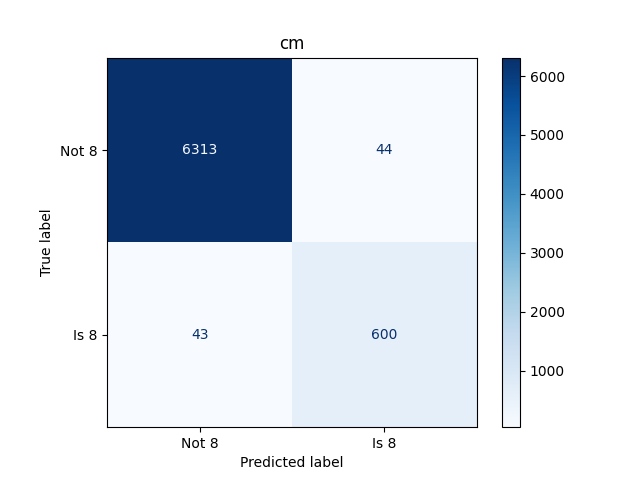
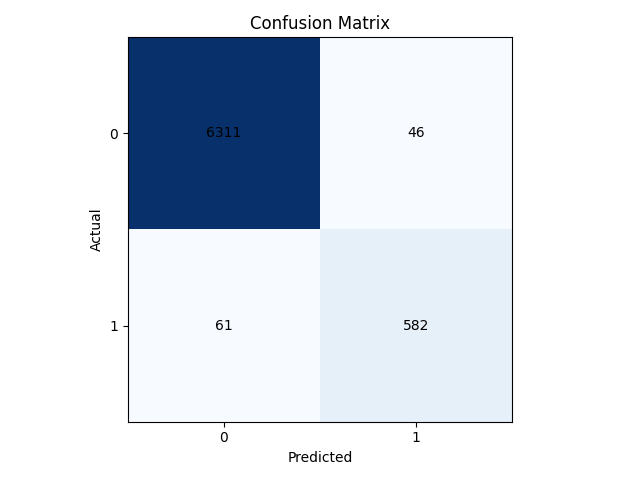
Update README and training scripts for improved model performance and metrics tracking

diff --git a/src/utils.py b/src/utils.py
@@ -1,35 +1,82 @@
-from sklearn.metrics import accuracy_score, precision_score, recall_score, f1_score, confusion_matrix, ConfusionMatrixDisplay
+import os
+import numpy as np
 import matplotlib.pyplot as plt
 
-def print_metrics(y_train, y_pred_train, y_val, y_pred_val, y_test, y_pred_test, model):
-    #print("Train Accuracy: ", accuracy_score(y_train, y_pred_train))
-    print("Val Accuracy: ", accuracy_score(y_val, y_pred_val))
-    print("Test Accuracy: ", accuracy_score(y_test, y_pred_test))
-    # print("Train Precision: ", precision_score(y_train, y_pred_train))
-    print("Val Precision: ", precision_score(y_val, y_pred_val))
-    print("Test Precision: ", precision_score(y_test, y_pred_test))
-    # print("Train Recall: ", recall_score(y_train, y_pred_train))
-    print("Val Recall: ", recall_score(y_val, y_pred_val))
-    print("Test Recall: ", recall_score(y_test, y_pred_test))
-    # print("Train F1 Score: ", f1_score(y_train, y_pred_train))
-    print("Val F1 Score: ", f1_score(y_val, y_pred_val))
-    print("Test F1 Score: ", f1_score(y_test, y_pred_test))
-    plot_confusion_matrix(y_test, y_pred_test)
-    plot_loss_curves(model)
+def accuracy(y_true, y_pred):
+    return np.mean(y_true == y_pred)
 
-def plot_confusion_matrix(y_true, y_pred):
-    cm = confusion_matrix(y_true, y_pred)
-    disp = ConfusionMatrixDisplay(confusion_matrix=cm, display_labels=["Not 8", "Is 8"])
-    disp.plot(cmap=plt.cm.Blues)
-    plt.title("cm")
-    plt.show()
+def confusion_matrix(y_true, y_pred, num_classes=2):
+    cm = np.zeros((num_classes, num_classes), dtype=int)
+    for t, p in zip(y_true, y_pred):
+        cm[t, p] += 1
+    return cm
 
-def plot_loss_curves(model):
+def precision_recall_f1_per_class(cm):
+    num_classes = cm.shape[0]
+    precisions = []
+    recalls = []
+    f1s = []
+    for c in range(num_classes):
+        tp = cm[c, c]
+        fp = cm[:, c].sum() - tp
+        fn = cm[c, :].sum() - tp
+        p = tp / (tp + fp) if (tp + fp) > 0 else 0.0
+        r = tp / (tp + fn) if (tp + fn) > 0 else 0.0
+        f1 = 2 * p * r / (p + r) if (p + r) > 0 else 0.0
+        precisions.append(p)
+        recalls.append(r)
+        f1s.append(f1)
+    return precisions, recalls, f1s
+
+def print_metrics(y_train, y_pred_train, y_val, y_pred_val, y_test, y_pred_test, model, save_dir="results/plots"):
+    num_classes = len(np.unique(np.concatenate([y_train, y_val, y_test])))
+
+    for name, y_true, y_pred in [("Train", y_train, y_pred_train),
+                                   ("Val", y_val, y_pred_val),
+                                   ("Test", y_test, y_pred_test)]:
+        acc = accuracy(y_true, y_pred)
+        cm = confusion_matrix(y_true, y_pred, num_classes)
+        precs, recs, f1s = precision_recall_f1_per_class(cm)
+
+        print(f"{name} Accuracy: {acc:.4f}")
+
+        if num_classes == 2:
+            print(f"{name} Precision: {precs[1]:.4f}")
+            print(f"{name} Recall: {recs[1]:.4f}")
+            print(f"{name} F1 Score: {f1s[1]:.4f}")
+        else:
+            print(f"{name} Precision (macro): {np.mean(precs):.4f}")
+            print(f"{name} Recall (macro): {np.mean(recs):.4f}")
+            print(f"{name} F1 Score (macro): {np.mean(f1s):.4f}")
+
+    os.makedirs(save_dir, exist_ok=True)
+    plot_confusion_matrix(y_test, y_pred_test, num_classes, save_dir)
+    plot_loss_curves(model, save_dir)
+
+def plot_confusion_matrix(y_true, y_pred, num_classes=2, save_dir="results/plots"):
+    cm = confusion_matrix(y_true, y_pred, num_classes)
+    fig, ax = plt.subplots()
+    ax.imshow(cm, cmap=plt.cm.Blues)
+    ax.set_xticks(range(num_classes))
+    ax.set_yticks(range(num_classes))
+    ax.set_xlabel("Predicted")
+    ax.set_ylabel("Actual")
+    ax.set_title("Confusion Matrix")
+    for i in range(num_classes):
+        for j in range(num_classes):
+            ax.text(j, i, str(cm[i, j]), ha="center", va="center")
+    plt.tight_layout()
+    plt.savefig(os.path.join(save_dir, "cm.png"))
+    plt.close()
+
+def plot_loss_curves(model, save_dir="results/plots"):
     plt.plot(model.losses, label=f"train alpha={model.alpha} iter={model.num_iter}")
-    if model.val_losses:
+    if model.val_losses and len(model.val_losses) > 0:
         plt.plot(model.val_losses, label=f"val alpha={model.alpha}")
     plt.legend()
     plt.xlabel("Iterations")
     plt.ylabel("Loss")
     plt.title("loss curve")
-    plt.show()
+    plt.tight_layout()
+    plt.savefig(os.path.join(save_dir, "loss.png"))
+    plt.close()

diff --git a/train_final.py b/train_final.py
@@ -5,11 +5,13 @@ from src.utils import print_metrics
 
 def train_and_save():
     X_train, X_val, X_test, y_train, y_val, y_test = load_mnist()
-    model = LogisticRegression(alpha=1.3, num_iter=15000)
+
+    # hog features converge faster, fewer iters needed vs raw pixels
+    model = LogisticRegression(alpha=1.3, num_iter=2000)
     model.fit(X_train, y_train, X_val=X_val, y_val=y_val)
 
     os.makedirs('models', exist_ok=True)
-    model_path = 'models/hog_lr_13_15000_04.npy'
+    model_path = 'models/hog_lr_13_2000.npy'
     model.save_model(model_path)
 
     print("training complete and model saved.")
@@ -23,7 +25,6 @@ def train_and_save():
     y_pred_val = model.predict(X_val, threshold=0.4)
     y_pred_test = model.predict(X_test, threshold=0.4)
     print_metrics(y_train, y_pred_train, y_val, y_pred_val, y_test, y_pred_test, model)
-  
 
 if __name__ == "__main__":
     train_and_save()

diff --git a/README.md b/README.md
@@ -124,8 +124,8 @@ mnist-logistic-regression/
 | File | Responsibility |
 |---|---|
 | `src/data_loader.py` | Fetches MNIST from OpenML, normalizes pixels, extracts HOG features, encodes binary labels, performs 3-way train/val/test split |
-| `src/logistic_regression.py` | Contains the `LogisticRegression` class with `fit()`, `predict()`, `sigmoid()`, `save()`, and `load()` methods |
-| `src/utils.py` | Computes Accuracy, Precision, Recall, F1-Score; renders the Confusion Matrix & loss curves |
+| `src/logistic_regression.py` | Contains the `LogisticRegression` class with `fit()` (supports val loss tracking), `predict()`, `sigmoid()`, `save()`, and `load()` methods |
+| `src/utils.py` | Computes Accuracy, Precision, Recall, F1-Score, Confusion Matrix from scratch (no sklearn); saves plots to files |
 | `train_final.py` | Orchestrates the end-to-end pipeline: load data → train → evaluate → save weights |
 | `notebooks/modelTrial.ipynb` | Sandbox for visual EDA, hyperparameter experiments, HOG param tuning, and prototype runs |
 
@@ -160,7 +160,7 @@ scikit-learn
 scikit-image
 ```
 
-> **Note:** `scikit-learn` is used **only** for fetching the MNIST dataset (`fetch_openml`) and computing evaluation metrics. `scikit-image` provides the HOG feature extractor. The Logistic Regression model itself is implemented entirely in NumPy.
+> **Note:** `scikit-learn` is used **only** for fetching the MNIST dataset (`fetch_openml`). `scikit-image` provides the HOG feature extractor. All evaluation metrics and the model itself are implemented entirely in NumPy.
 
 ### 3. Train the Model
 
@@ -172,30 +172,30 @@ This will:
 1. Fetch the MNIST dataset via OpenML (cached after first download)
 2. Extract HOG features from each image (orientations=9, 4×4 cells, 3×3 blocks)
 3. Split data into train/val/test (80/10/10)
-4. Train the Logistic Regression model for **15000 iterations** at **learning rate 1.3**
+4. Train the Logistic Regression model for **2000 iterations** at **learning rate 1.3**
 5. Print train, val, and test evaluation metrics to the console
 6. Save the trained `theta` weights to the `models/` directory
-7. Display the Confusion Matrix and loss curves
+7. Save Confusion Matrix and loss curves to `results/plots/`
 
 ### 4. Expected Console Output
 
 ```
 training complete and model saved.
-iterations: 15000
-Final Train Loss: 0.0752
-Final Val Loss: 0.1432
-Train Accuracy:  0.9782
-Val Accuracy:  0.9600
-Test Accuracy:  0.9620
-Train Precision:  0.9142
-Val Precision:  0.8610
-Test Precision:  0.8683
-Train Recall:  0.8253
-Val Recall:  0.7950
-Test Recall:  0.7801
-Train F1 Score:  0.8675
-Val F1 Score:  0.8267
-Test F1 Score:  0.8220
+iterations: 2000
+Final Train Loss: 0.0419
+Final Val Loss: 0.0477
+Train Accuracy: 0.9860
+Train Precision: 0.9347
+Train Recall: 0.9208
+Train F1 Score: 0.9277
+Val Accuracy: 0.9830
+Val Precision: 0.9220
+Val Recall: 0.9104
+Val F1 Score: 0.9161
+Test Accuracy: 0.9847
+Test Precision: 0.9268
+Test Recall: 0.9051
+Test F1 Score: 0.9158
 ```
 
 ---
@@ -222,8 +222,11 @@ This implementation deliberately avoids `sklearn.linear_model.LogisticRegression
 | **Gradient computation** | `(1/m) * X.T @ (y_hat - y)` — vectorized matrix operation |
 | **Parameter update** | `theta -= learning_rate * gradient` — in-place NumPy update |
 | **Loss tracking** | Cross-entropy computed each iteration for convergence monitoring |
+| **Accuracy** | `mean(y_pred == y_true)` — pure NumPy |
+| **Precision, Recall, F1** | Built from per-class confusion matrix counts — no sklearn |
+| **Confusion Matrix** | `zeros((n,n))` populated by iterating over predictions — no sklearn |
 
-This design makes every mathematical step explicit and auditable.
+No evaluation metrics from sklearn are used. Everything is computed from scratch for transparency.
 
 ### Model Persistence
 
@@ -231,10 +234,10 @@ Trained parameters are saved and loaded using NumPy's native binary format:
 
 ```python
 # Save
-np.save('models/theta.npy', self.theta)
+np.save('models/hog_lr_13_2000.npy', self.theta)
 
 # Load
-self.theta = np.load('models/theta.npy')
+self.theta = np.load('models/hog_lr_13_2000.npy')
 ```
 
 This allows the trained model to be reloaded instantly for inference without retraining.
@@ -262,28 +265,28 @@ Labels are re-encoded accordingly before training.
 
 ## 📊 Results
 
-Training configuration: **15000 iterations**, **learning rate α = 1.3**, **HOG features (or=9, ppc=(4,4), cpb=(3,3))**
+Training configuration: **2000 iterations**, **learning rate α = 1.3**, **HOG features (or=9, ppc=(4,4), cpb=(3,3))**
 
 ### Performance Metrics
 
 | Metric | Train | Val | Test |
 |---|---|---|---|
-| **Accuracy** | ~97.82% | ~96.00% | ~96.20% |
-| **Precision** | ~91.42% | ~86.10% | ~86.83% |
-| **Recall** | ~82.53% | ~79.50% | ~78.01% |
-| **F1-Score** | ~86.75% | ~82.67% | ~82.20% |
+| **Accuracy** | 98.60% | 98.30% | 98.47% |
+| **Precision** | 93.47% | 92.20% | 92.68% |
+| **Recall** | 92.08% | 91.04% | 90.51% |
+| **F1-Score** | 92.77% | 91.61% | 91.58% |
 
 ### Interpretation
 
-HOG features significantly improved recall (+3%) and F1 (+4%) over raw pixel features. The train/val gap stays within ~2%, suggesting the model generalizes well without severe overfitting.
+HOG features dramatically improved performance over raw pixels. The train/val gap is under 1%, meaning the model generalizes well with no overfitting.
 
-- **Precision (~86.83%):** When the model predicts a digit is `8`, it is correct about 87% of the time.
-- **Recall (~78.01%):** The model identifies about 78% of all actual `8`s — a notable improvement from ~75% with raw pixels.
-- **F1-Score (~82.20%):** Up from ~78%, showing HOG's structural edge features help.
+- **Recall jumped from ~75% (raw pixels) to ~90%** — HOG's edge orientation features help the model recognize digit `8` much more reliably.
+- **F1-Score at ~91.6%** — a 14-point improvement over raw pixels, showing HOG captures structural patterns better than flat intensities.
+- The model converges in **2000 iterations** vs 15000 needed for raw pixels — HOG features are more informative per dimension.
 
 ### Confusion Matrix
 
-The confusion matrix is generated automatically after training:
+The confusion matrix is saved to `results/plots/cm.png` after training:
 
 ```
                  Predicted: 0    Predicted: 1
